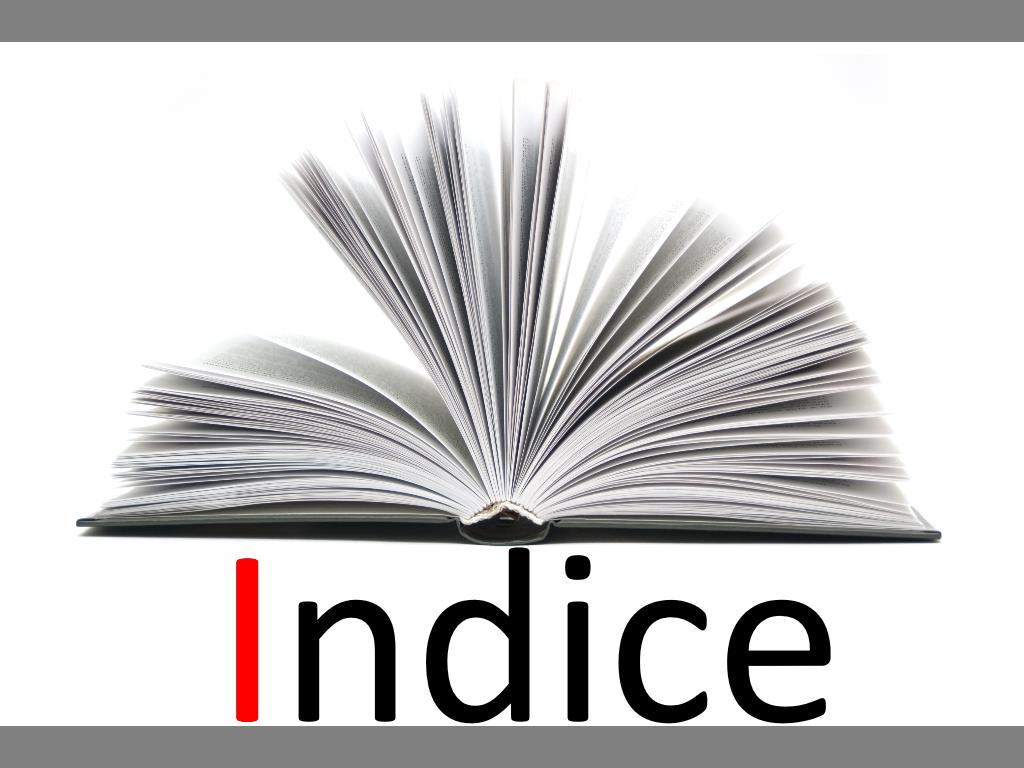
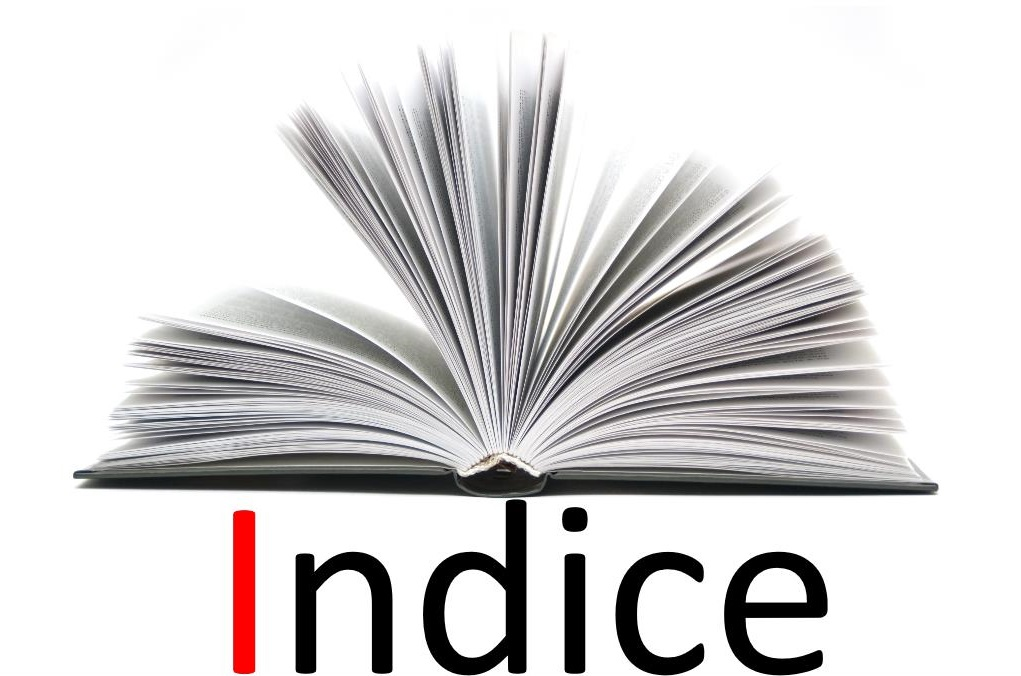
feat(alek_barilà):aggiunta ricerca css

diff --git a/alek_barilà/EXERCISES/1HTML/CSS.html b/alek_barilà/EXERCISES/1HTML/CSS.html
@@ -1,0 +1,103 @@
+<!DOCTYPE html>
+<html lang="it">
+  <head>
+    <meta charset="UTF-8" />
+    <meta name="viewport" content="width=device-width, initial-scale=1.0" />
+    <title>Cos'è CSS?</title>
+  </head>
+  <body>
+    <img src="IMG\css.jpg" alt="CSS" />
+
+    <p>
+      CSS è un linguaggio di stile utilizzato per definire l'aspetto e la
+      formattazione di un documento HTML. Consente di controllare il layout, i
+      colori, i tipi di carattere e altri aspetti visivi del contenuto web.
+    </p>
+
+    <p>
+      <strong>Struttura di un File CSS:</strong><br />
+      Un file CSS è costituito da un insieme di regole di stile, ognuna delle
+      quali si applica a uno o più elementi HTML. Ogni regola di stile è
+      composta da un selettore e un blocco di dichiarazioni.
+    </p>
+
+    <pre><code>
+selettore {
+  proprietà: valore;
+}
+</code></pre>
+
+    <hr />
+
+    <p>
+      <strong>Selettori CSS:</strong><br />
+      I selettori CSS identificano gli elementi HTML a cui verranno applicati le
+      regole di stile. Possono essere basati su elementi, classi, ID, attributi
+      e altro ancora.
+    </p>
+
+    <ul>
+      <li>
+        <strong>Selettori di elementi:</strong> Si applicano a tutti gli
+        elementi di un determinato tipo (ad esempio, <code>p</code> per i
+        paragrafi).
+      </li>
+      <li>
+        <strong>Selettori di classe:</strong> Si applicano agli elementi che
+        hanno un determinato valore nell'attributo <code>class</code> (ad
+        esempio, <code>.classe</code>).
+      </li>
+      <li>
+        <strong>Selettori di ID:</strong> Si applicano agli elementi che hanno
+        un determinato valore nell'attributo <code>id</code> (ad esempio,
+        <code>#id</code>).
+      </li>
+    </ul>
+
+    <hr />
+
+    <p>
+      <strong>Dichiarazioni CSS:</strong><br />
+      Le dichiarazioni specificano quali attributi di stile devono essere
+      applicati agli elementi selezionati. Ogni dichiarazione è composta da una
+      proprietà e un valore separati da due punti.
+    </p>
+
+    <pre><code>
+selettore { 
+  proprietà: valore;
+}
+</code></pre>
+
+    <hr />
+
+    <p>
+      <strong>Box Model:</strong><br />
+      Il Box Model è un concetto fondamentale in CSS che descrive come gli
+      elementi HTML vengono visualizzati e occupano spazio sullo schermo. È
+      composto da margini, padding, bordi e content area.
+    </p>
+
+    <p>
+      <strong>Selezione di Priorità (Specificità):</strong><br />
+      Quando più regole di stile si applicano a uno stesso elemento, viene
+      utilizzata la selezione di priorità per determinare quale regola deve
+      prevalere. La specificità è una misura di quale regola ha maggiore peso ed
+      è basata sui selettori utilizzati.
+    </p>
+
+    <p>
+      <strong>Media Queries:</strong><br />
+      Le media queries consentono di applicare regole di stile diverse in base
+      alle caratteristiche del dispositivo, come larghezza dello schermo,
+      orientamento e altro ancora. Sono comunemente utilizzate per rendere un
+      sito web reattivo e adattabile a diverse dimensioni e tipi di dispositivi.
+    </p>
+    <hr />
+    <h3>Ti potrebbe interessare anche:</h3>
+    <a href="Git.html"><strong>Git</strong></a>
+    <a href="Backend.html"><strong>Backend</strong></a>
+    <a href="Html.html"><strong>Html</strong></a>
+    <a href="Markdown.html"><strong>Markdown</strong></a>
+  </body>
+</html>

diff --git a/alek_barilà/EXERCISES/1HTML/index.html b/alek_barilà/EXERCISES/1HTML/index.html
@@ -6,7 +6,7 @@
     <title>INDICE-HOME</title>
   </head>
   <body>
-    <img src="IMG\indice.jpg" alt="Indice width="500" height="450">
+    <img src="IMG\indice.jpg" alt="Indice width="" height="250" />
     <hr />
     <table>
       <tr>
@@ -28,6 +28,11 @@
       <tr>
         <td>
           <a href="Markdown.html"><strong>Markdown</strong></a>
+        </td>
+      </tr>
+      <tr>
+        <td>
+          <a href="CSS.html"><strong>CSS</strong></a>
         </td>
       </tr>
     </table>

diff --git a/alek_barilà/EXERCISES/1HTML/Git.html b/alek_barilà/EXERCISES/1HTML/Git.html
@@ -60,5 +60,6 @@
     <a href="Backend.html"><strong>Backend</strong></a>
     <a href="Html.html"><strong>Html</strong></a>
     <a href="Markdown.html"><strong>Markdown</strong></a>
+    <a href="CSS.html"><strong>CSS</strong></a>
   </body>
 </html>

diff --git a/alek_barilà/EXERCISES/1HTML/Html.html b/alek_barilà/EXERCISES/1HTML/Html.html
@@ -99,5 +99,6 @@
     <a href="Git.html"><strong>Git</strong></a>
     <a href="Backend.html"><strong>Backend</strong></a>
     <a href="Markdown.html"><strong>Markdown</strong></a>
+    <a href="CSS.html"><strong>CSS</strong></a>
   </body>
 </html>

diff --git a/alek_barilà/EXERCISES/1HTML/Backend.html b/alek_barilà/EXERCISES/1HTML/Backend.html
@@ -103,5 +103,6 @@
     <a href="Git.html"><strong>Git</strong></a>
     <a href="Html.html"><strong>Html</strong></a>
     <a href="Markdown.html"><strong>Markdown</strong></a>
+    <a href="CSS.html"><strong>CSS</strong></a>
   </body>
 </html>

diff --git a/alek_barilà/EXERCISES/1HTML/Markdown.html b/alek_barilà/EXERCISES/1HTML/Markdown.html
@@ -70,5 +70,6 @@
     <a href="Git.html"><strong>Git</strong></a>
     <a href="Html.html"><strong>Html</strong></a>
     <a href="Backend.html"><strong>Backend</strong></a>
+    <a href="CSS.html"><strong>CSS</strong></a>
   </body>
 </html>

diff --git a/alek_barilà/helper/CSS.md b/alek_barilà/helper/CSS.md
@@ -1,0 +1,51 @@
+<h1>Cos'è CSS?</h1>
+CSS è un linguaggio di stile utilizzato per definire l'aspetto e la formattazione di un documento HTML.
+Consente di controllare il layout, i colori, i tipi di carattere e altri aspetti visivi del contenuto web.
+
+Struttura di un File CSS:
+Un file CSS è costituito da un insieme di regole di stile, ognuna delle quali si applica a uno o più elementi HTML.
+Ogni regola di stile è composta da un selettore e un blocco di dichiarazioni.
+
+Ad esempio:
+
+selettore {<br>
+proprietà: valore;<br>
+}
+
+<hr>
+
+**Selettori CSS:** <br>
+I selettori CSS identificano gli elementi HTML a cui verranno applicati i regole di stile.
+Possono essere basati su elementi, classi, ID, attributi e altro ancora.
+
+-Selettori di elementi:
+Si applicano a tutti gli elementi di un determinato tipo (ad esempio, p per i paragrafi). <br>
+-Selettori di classe: Si applicano agli elementi che hanno un determinato valore nell'attributo class (ad esempio, .classe). <br>
+-Selettori di ID: Si applicano agli elementi che hanno un determinato valore nell'attributo id (ad esempio, #id).
+
+<hr>
+**Dichiarazioni CSS:** <br>
+Le dichiarazioni specificano quali attributi di stile devono essere applicati agli elementi selezionati. Ogni dichiarazione è composta da una proprietà e un valore separati da due punti.
+
+Esempio:
+
+p { <br>
+color: blue; <br>
+font-size: 16px; <br>
+}
+
+<hr>
+
+**Box Model:** <br>
+Il Box Model è un concetto fondamentale in CSS che descrive come gli elementi HTML vengono visualizzati
+e occupano spazio sullo schermo. È composto da margini, padding, bordi e content area.
+
+**Selezione di Priorità (Specificità):** <br>
+Quando più regole di stile si applicano a uno stesso elemento, viene utilizzata la selezione di
+priorità per determinare quale regola deve prevalere. La specificità è una misura di quale regola
+ha maggiore peso ed è basata sui selettori utilizzati.
+
+**Media Queries:** <br>
+Le media queries consentono di applicare regole di stile diverse in base alle caratteristiche del dispositivo,
+come larghezza dello schermo, orientamento e altro ancora. Sono comunemente utilizzate per rendere un sito web
+reattivo e adattabile a diverse dimensioni e tipi di dispositivi.
